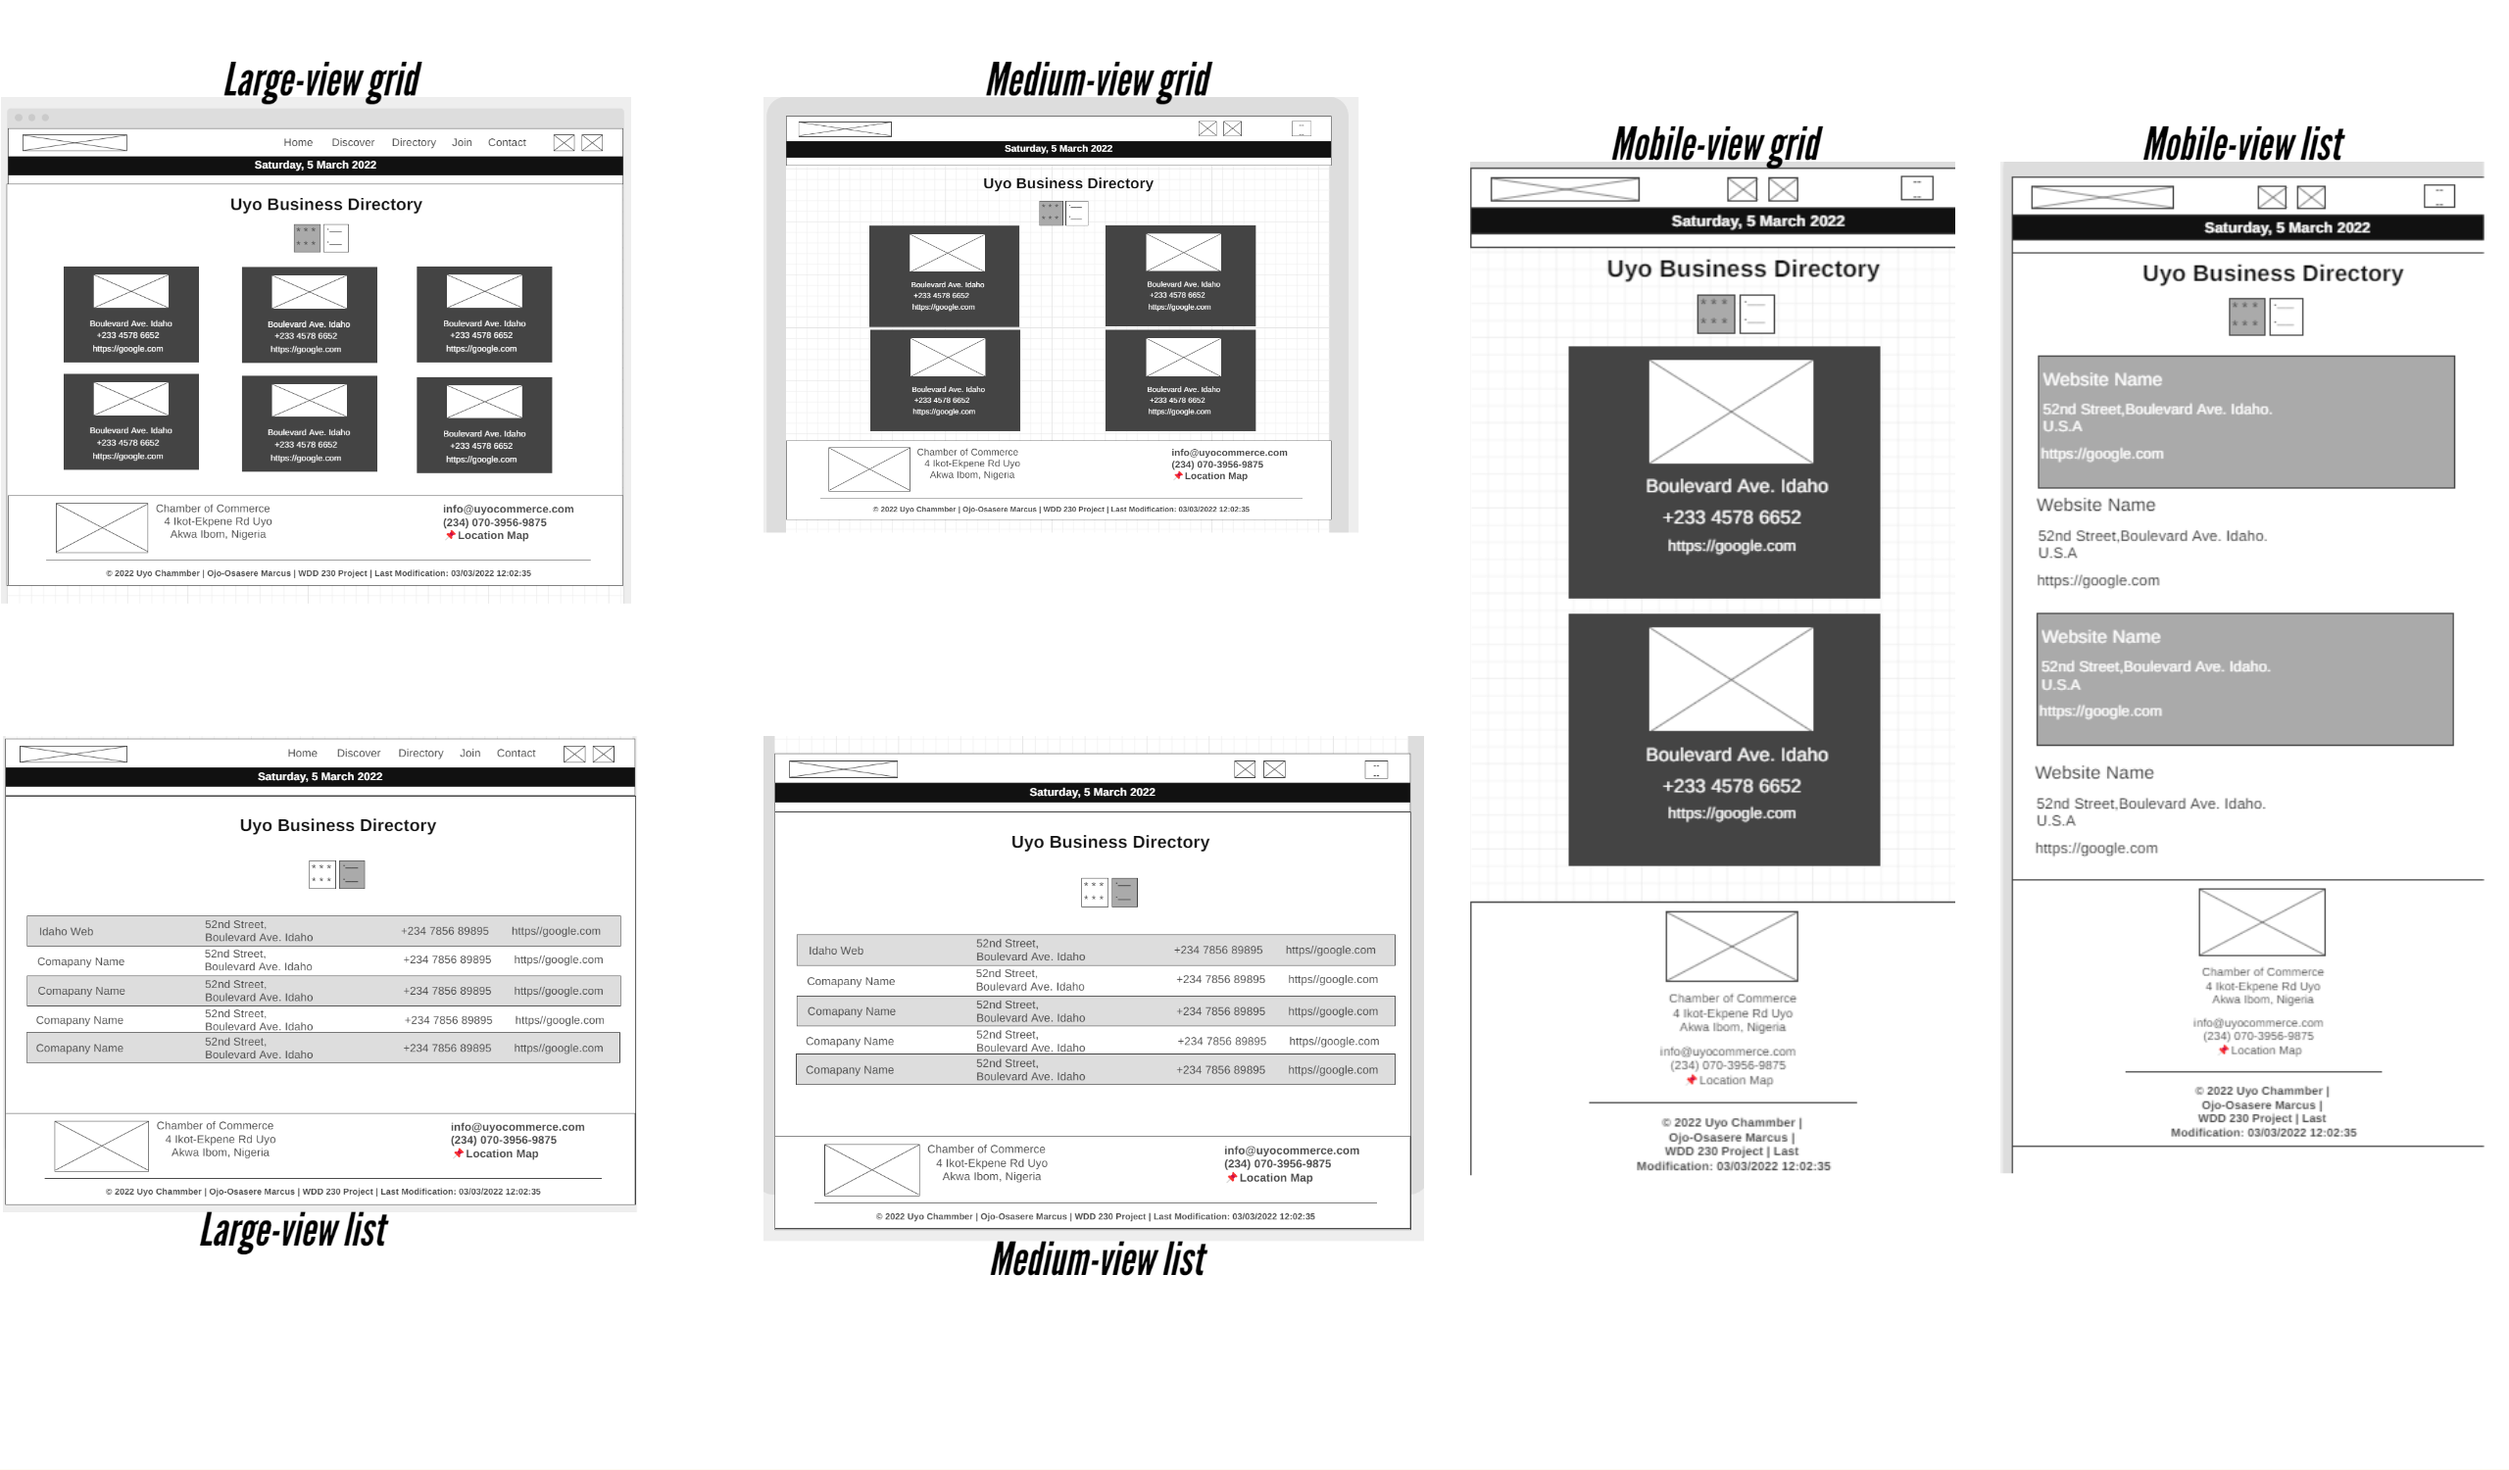
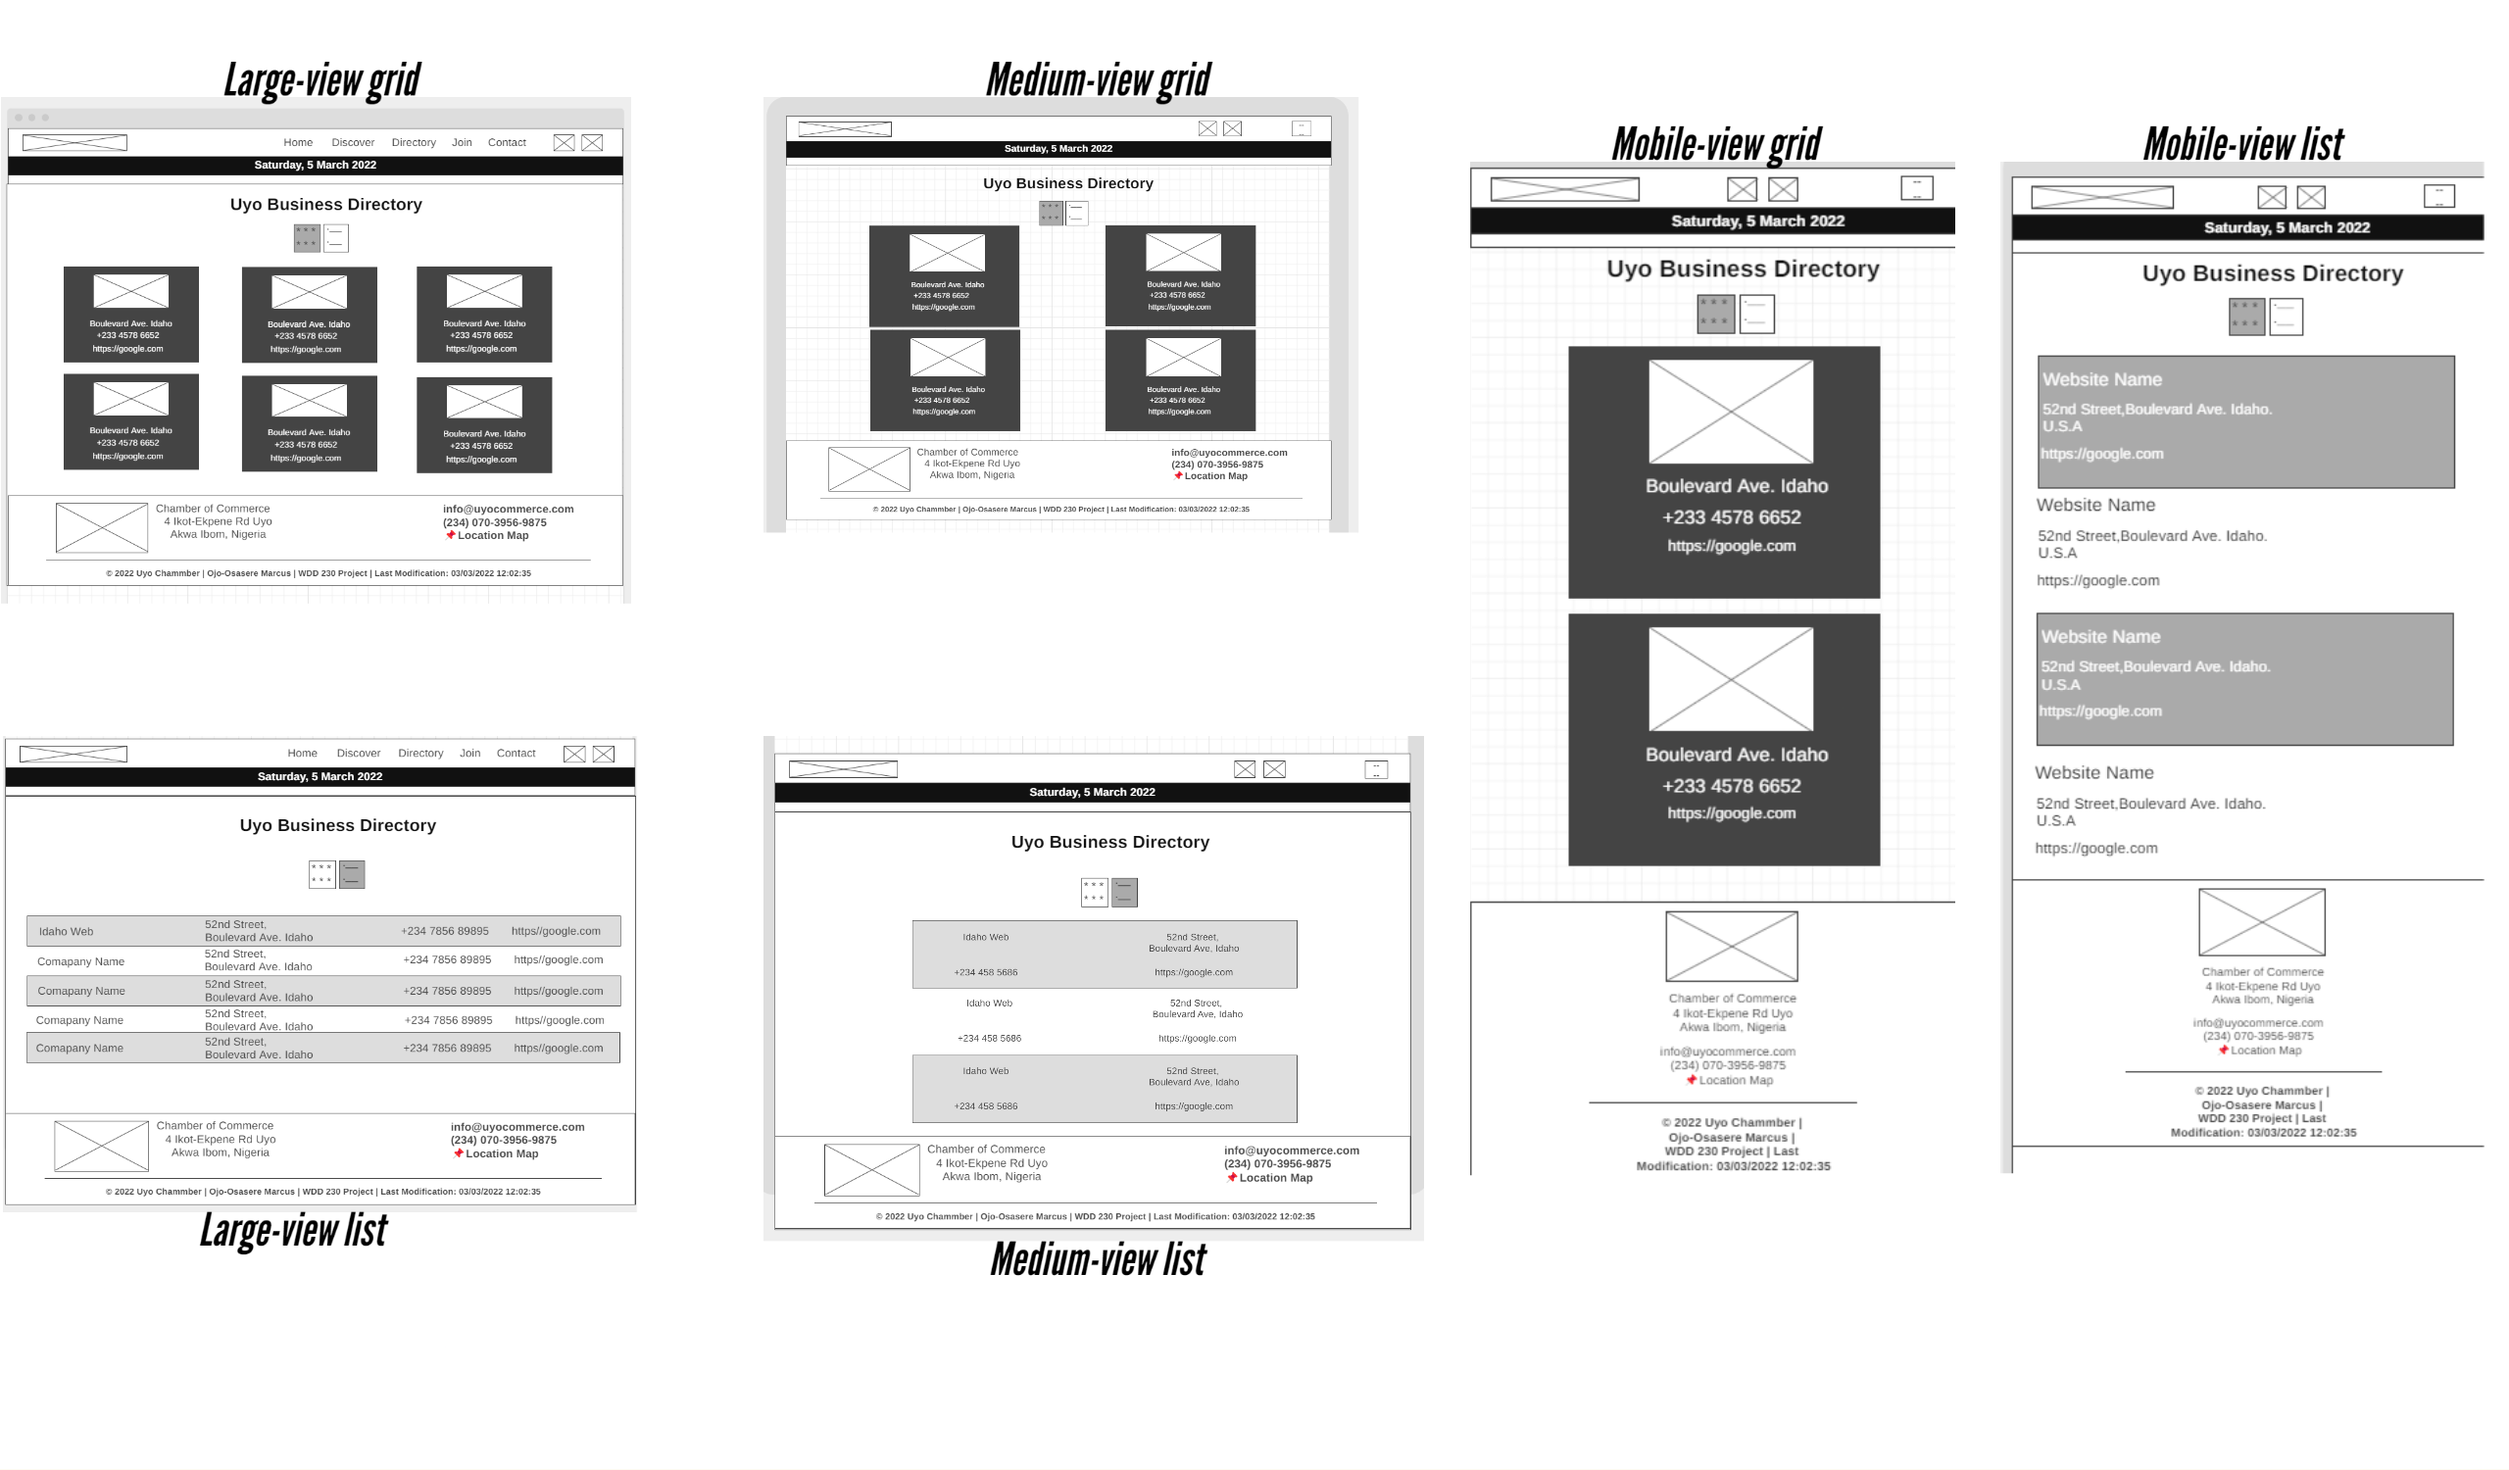
edditted color and added wireframe

Changed region(s): [[0.3125, 0.6133, 0.5625, 0.7667]]

diff --git a/index.html b/index.html
@@ -36,7 +36,7 @@
             <li>Lesson 08: <a href="chamber/join.html">Uyo Chamber Of Commerce (Join Page)</a></li>
             <li>Lesson 09: <a href="lesson-9/index.html">LDS Prophets (Fetch)</a></li>
             <li>Lesson 09: <a href="chamber/directory.html">Uyo Chamber Of Commerce (Directory Page)</a></li>
-
+            <li>Lesson 09: <a href="chamber/images/wireframes/directorywireframepage.png">Directory Page (wireframe)</a></li>
             <li>Lesson 10: <a href="#">Title</a></li>
             <li>Lesson 11: <a href="">Title</a></li>
         </ul>

diff --git a/chamber/css/base.css b/chamber/css/base.css
@@ -535,7 +535,7 @@ td {
 
     padding: 0;
     background-color: #ffffff;
-    box-shadow: 0 3px 8px 5px #A9D6E5;
+    box-shadow: 0 3px 8px 5px #f1f1f1;
     border-radius: 2px;
     padding: 20px 0;
 }

diff --git a/chamber/css/large.css b/chamber/css/large.css
@@ -186,8 +186,8 @@
 
   .cards {
     grid-template-columns: repeat(3, 1fr);
-    grid-gap: 25px;
-    padding: 25px 25px;
+    grid-gap: 5px;
+    padding: 50px 50px;
   }
 
   .card address {
